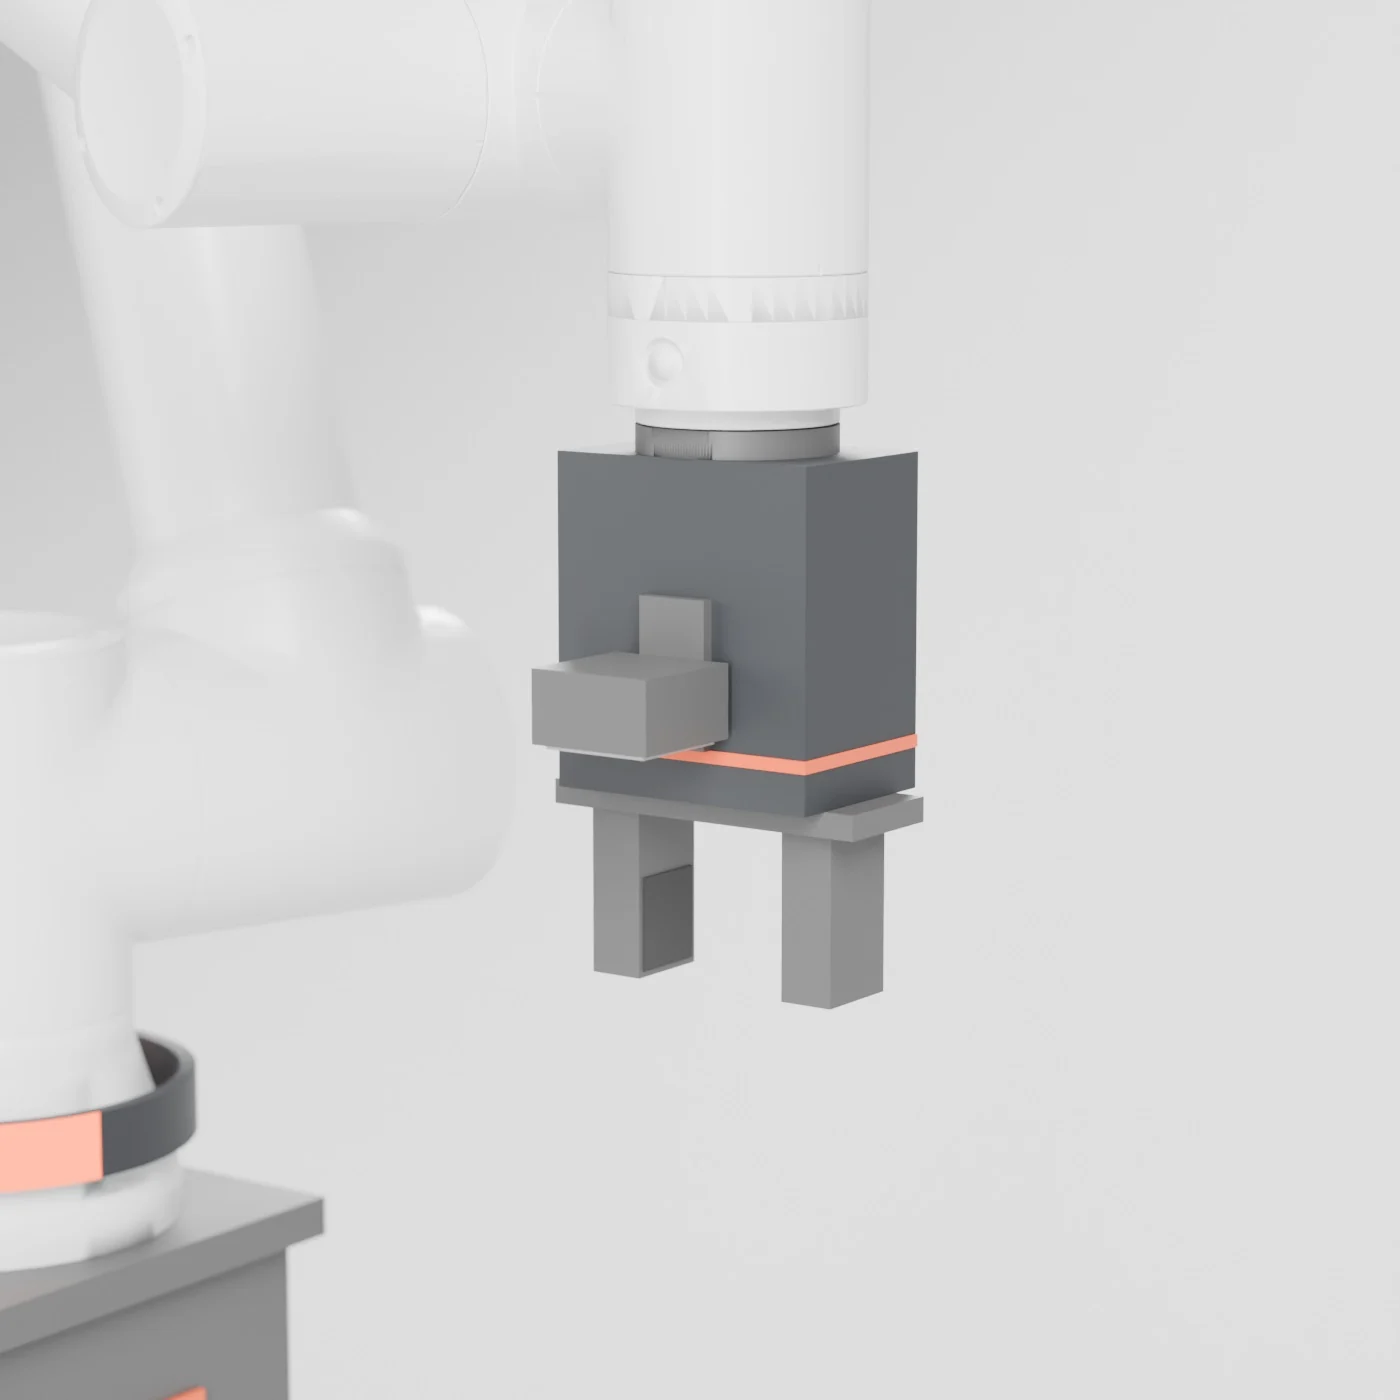
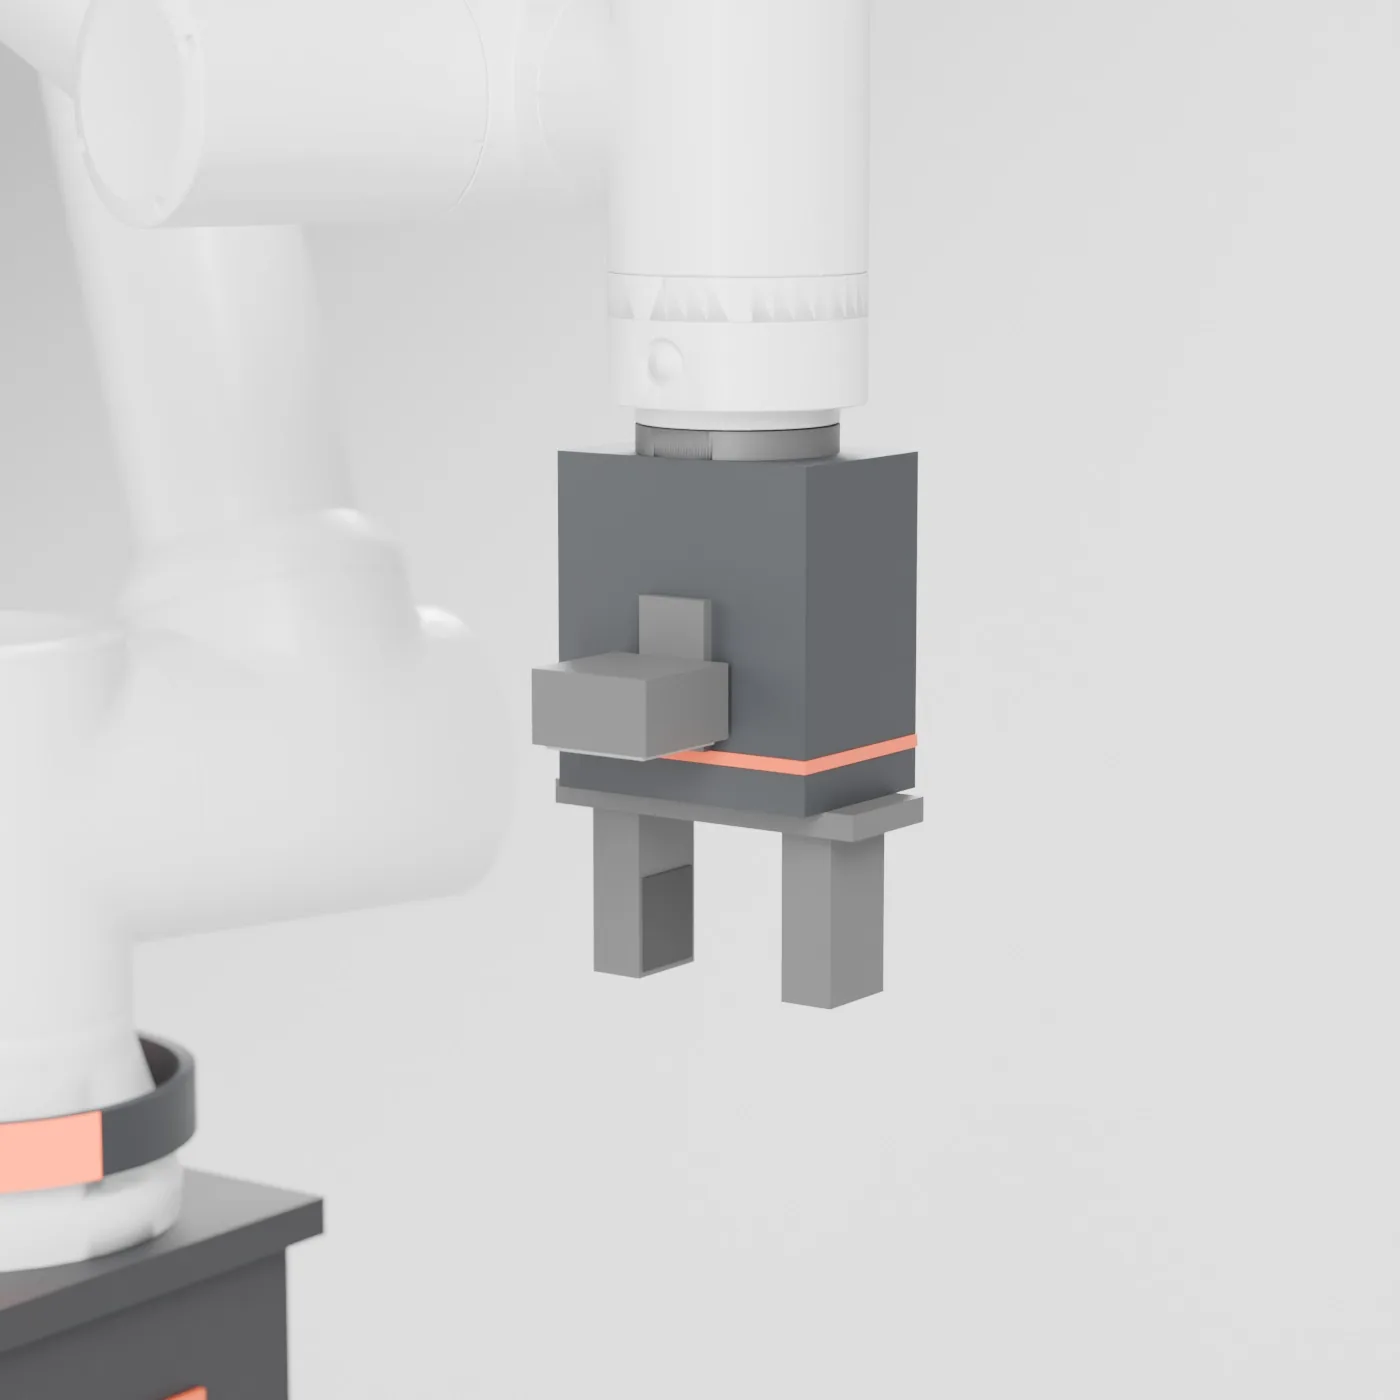
Ragnar M renders: black arm riser to match the Ragnar C mast, and sharper materials in the studio shots, close ups and iso views

Changed region(s): [[0.0, 0.86, 0.2457, 1.0]]

diff --git a/m.html b/m.html
@@ -71,12 +71,12 @@
   </section>
   <section aria-label="Ragnar M from the front and from the rear">
     <div class="wrap g pair">
-      <div class="c12"><img src="assets/img/m_iso.webp?v=609aadd1" width="1140" height="1228" alt="CAD view of Ragnar M, the CNC machine tending robot, from the front right: the base, the two cassettes, the riser and the arm with its gripper." loading="lazy" decoding="async"></div>
-      <div class="c34 vl"><img src="assets/img/m_iso_rear.webp?v=9e7739da" width="1140" height="1228" alt="CAD view of Ragnar M from the rear left: the push handle with the operator panel, the cassettes and the riser." loading="lazy" decoding="async"></div>
+      <div class="c12"><img src="assets/img/m_iso.webp?v=fc87f0d1" width="1140" height="1228" alt="CAD view of Ragnar M, the CNC machine tending robot, from the front right: the base, the two cassettes, the riser and the arm with its gripper." loading="lazy" decoding="async"></div>
+      <div class="c34 vl"><img src="assets/img/m_iso_rear.webp?v=04ce801d" width="1140" height="1228" alt="CAD view of Ragnar M from the rear left: the push handle with the operator panel, the cassettes and the riser." loading="lazy" decoding="async"></div>
     </div>
   </section>
   <section class="band" aria-label="Ragnar M in the studio">
-    <div class="wrap"><img src="assets/img/m_studio_2400.webp?v=be13c131" srcset="assets/img/m_studio_1200.webp?v=6d39e2e6 1200w, assets/img/m_studio_2400.webp?v=be13c131 2400w" sizes="(min-width: 900px) min(1440px, 100vw - 48px), 100vw" width="2400" height="1350" alt="Rendering of Ragnar M, a mobile robot for CNC machine tending, in a grey studio with its orange status lights on: the base, the cassettes, the riser and the arm with its gripper." loading="lazy" decoding="async"></div>
+    <div class="wrap"><img src="assets/img/m_studio_2400.webp?v=4b833711" srcset="assets/img/m_studio_1200.webp?v=3a53d305 1200w, assets/img/m_studio_2400.webp?v=4b833711 2400w" sizes="(min-width: 900px) min(1440px, 100vw - 48px), 100vw" width="2400" height="1350" alt="Rendering of Ragnar M, a mobile robot for CNC machine tending, in a grey studio with its orange status lights on: the base, the cassettes, the riser and the arm with its gripper." loading="lazy" decoding="async"></div>
   </section>
   <section id="how" aria-labelledby="how-h">
     <div class="wrap g">
@@ -114,12 +114,12 @@
     <div class="wrap plates">
       <div class="pcol">
         <div class="plates-h"><h2 id="details-h">The details</h2><p>The parts that do the work, up close.</p></div>
-        <figure><img src="assets/img/m_grip_1400.webp?v=9dcf3dbb" srcset="assets/img/m_grip_800.webp?v=30695290 800w, assets/img/m_grip_1400.webp?v=9dcf3dbb 1400w" sizes="(min-width: 900px) min(720px, 50vw), 100vw" width="1400" height="1400" alt="Close up CAD rendering of the electric gripper on the wrist of the arm, with the RealSense D405 on its side." loading="lazy" decoding="async"><figcaption><b>Gripper.</b> An electric parallel gripper takes the finished part out of the machine and puts the next one in. A RealSense D405 on the wrist checks every grip.</figcaption></figure>
-        <figure><img src="assets/img/m_corner_1400.webp?v=5b8c6c32" srcset="assets/img/m_corner_800.webp?v=04522088 800w, assets/img/m_corner_1400.webp?v=5b8c6c32 1400w" sizes="(min-width: 900px) min(720px, 50vw), 100vw" width="1400" height="980" alt="Close up CAD rendering of a corner of the Ragnar M base: the black glass band, the light line, an emergency stop and a lifting eye." loading="lazy" decoding="async"><figcaption><b>Base.</b> A lidar behind the glass band at the front, a depth camera at the front corner, an emergency stop on each corner of the deck, lifting eyes and a light line all around.</figcaption></figure>
+        <figure><img src="assets/img/m_grip_1400.webp?v=51a4c97d" srcset="assets/img/m_grip_800.webp?v=5b42fa0a 800w, assets/img/m_grip_1400.webp?v=51a4c97d 1400w" sizes="(min-width: 900px) min(720px, 50vw), 100vw" width="1400" height="1400" alt="Close up CAD rendering of the electric gripper on the wrist of the arm, with the RealSense D405 on its side." loading="lazy" decoding="async"><figcaption><b>Gripper.</b> An electric parallel gripper takes the finished part out of the machine and puts the next one in. A RealSense D405 on the wrist checks every grip.</figcaption></figure>
+        <figure><img src="assets/img/m_corner_1400.webp?v=a1aaf2f1" srcset="assets/img/m_corner_800.webp?v=f413d66e 800w, assets/img/m_corner_1400.webp?v=a1aaf2f1 1400w" sizes="(min-width: 900px) min(720px, 50vw), 100vw" width="1400" height="980" alt="Close up CAD rendering of a corner of the Ragnar M base: the black glass band, the light line, an emergency stop and a lifting eye." loading="lazy" decoding="async"><figcaption><b>Base.</b> A lidar behind the glass band at the front, a depth camera at the front corner, an emergency stop on each corner of the deck, lifting eyes and a light line all around.</figcaption></figure>
       </div>
       <div class="pcol">
-        <figure><img src="assets/img/m_deck_1400.webp?v=3eaf7bcf" srcset="assets/img/m_deck_800.webp?v=dd91e242 800w, assets/img/m_deck_1400.webp?v=3eaf7bcf 1400w" sizes="(min-width: 900px) min(720px, 50vw), 100vw" width="1400" height="1400" alt="Close up CAD rendering of the Ragnar M deck with the raw stock columns behind the riser and the divided tray for finished parts at the rear." loading="lazy" decoding="async"><figcaption><b>Cassettes.</b> Raw stock stands in guided columns behind the riser, and finished parts go into the divided tray at the rear.</figcaption></figure>
-        <figure><img src="assets/img/m_riser_1400.webp?v=4c2be70c" srcset="assets/img/m_riser_800.webp?v=1ee5397b 800w, assets/img/m_riser_1400.webp?v=4c2be70c 1400w" sizes="(min-width: 900px) min(720px, 50vw), 100vw" width="1400" height="1400" alt="Close up CAD rendering of the arm base on top of the fixed riser, with the orange status light on the ring." loading="lazy" decoding="async"><figcaption><b>Riser.</b> A fixed steel riser holds the FR5 33.5&nbsp;in (850&nbsp;mm) off the floor. The ring under the arm is its status light.</figcaption></figure>
+        <figure><img src="assets/img/m_deck_1400.webp?v=9b629835" srcset="assets/img/m_deck_800.webp?v=a5ee6f04 800w, assets/img/m_deck_1400.webp?v=9b629835 1400w" sizes="(min-width: 900px) min(720px, 50vw), 100vw" width="1400" height="1400" alt="Close up CAD rendering of the Ragnar M deck with the raw stock columns behind the riser and the divided tray for finished parts at the rear." loading="lazy" decoding="async"><figcaption><b>Cassettes.</b> Raw stock stands in guided columns behind the riser, and finished parts go into the divided tray at the rear.</figcaption></figure>
+        <figure><img src="assets/img/m_riser_1400.webp?v=34981ee9" srcset="assets/img/m_riser_800.webp?v=b210d8b8 800w, assets/img/m_riser_1400.webp?v=34981ee9 1400w" sizes="(min-width: 900px) min(720px, 50vw), 100vw" width="1400" height="1400" alt="Close up CAD rendering of the arm base on top of the fixed riser, with the orange status light on the ring." loading="lazy" decoding="async"><figcaption><b>Riser.</b> A fixed steel riser holds the FR5 33.5&nbsp;in (850&nbsp;mm) off the floor. The ring under the arm is its status light.</figcaption></figure>
       </div>
     </div>
   </section>
@@ -134,7 +134,7 @@
       <div class="d-front"><svg class="dwg" viewBox="-450 -1190 900 1430" role="img" aria-label="Front view of Ragnar M with its width: 28 inches."><image href="assets/img/m_front.webp?v=f4a6cbfb" x="-420" y="-1150" width="840" height="1155"/><path d="M-360 30V180M360 30V180M-360 150H360"/><path class="ah" d="M-360 150L-324 160L-324 140Z"/><path class="ah" d="M360 150L324 140L324 160Z"/><text x="0" y="228" text-anchor="middle">28 in <tspan>(0.72 m)</tspan></text></svg></div>
       <div class="d-rear"><svg class="dwg" viewBox="-450 -1190 900 1430" role="img" aria-label="Rear view of Ragnar M showing the push handle and the operator panel."><image href="assets/img/m_rear.webp?v=98fb3153" x="-420" y="-1150" width="840" height="1155"/></svg></div>
       <div class="d-top"><svg class="dwg" viewBox="-880 -470 1800 940" role="img" aria-label="Top view of Ragnar M with the arm folded. Ragnar M is 28 inches wide."><image href="assets/img/m_top.webp?v=458dd5cd" x="-600" y="-420" width="1200" height="840"/><path d="M-538 360H-730M-538 -360H-730M-700 360V-360"/><path class="ah" d="M-700 360L-690 324L-710 324Z"/><path class="ah" d="M-700 -360L-710 -324L-690 -324Z"/><text transform="translate(-726 0) rotate(-90)" text-anchor="middle">28 in <tspan>(0.72 m)</tspan></text></svg></div>
-      <div class="d-iso"><img src="assets/img/m_iso.webp?v=609aadd1" width="1140" height="1228" alt="Three quarter view of the Ragnar M CAD model." loading="lazy" decoding="async"></div>
+      <div class="d-iso"><img src="assets/img/m_iso.webp?v=fc87f0d1" width="1140" height="1228" alt="Three quarter view of the Ragnar M CAD model." loading="lazy" decoding="async"></div>
     </div>
     </div>
   </section>
